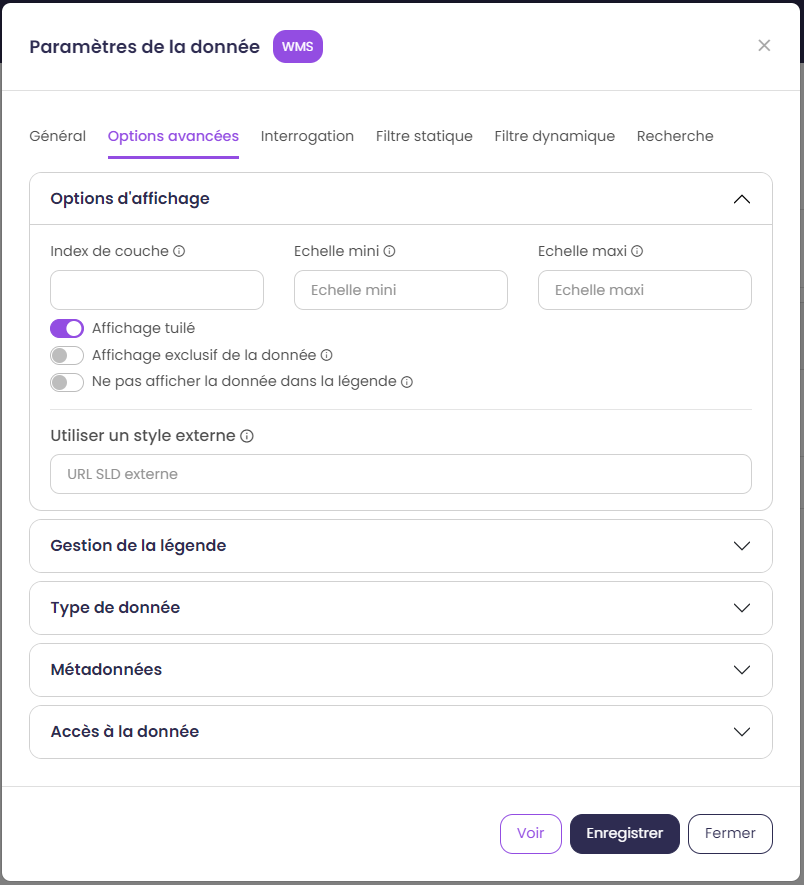
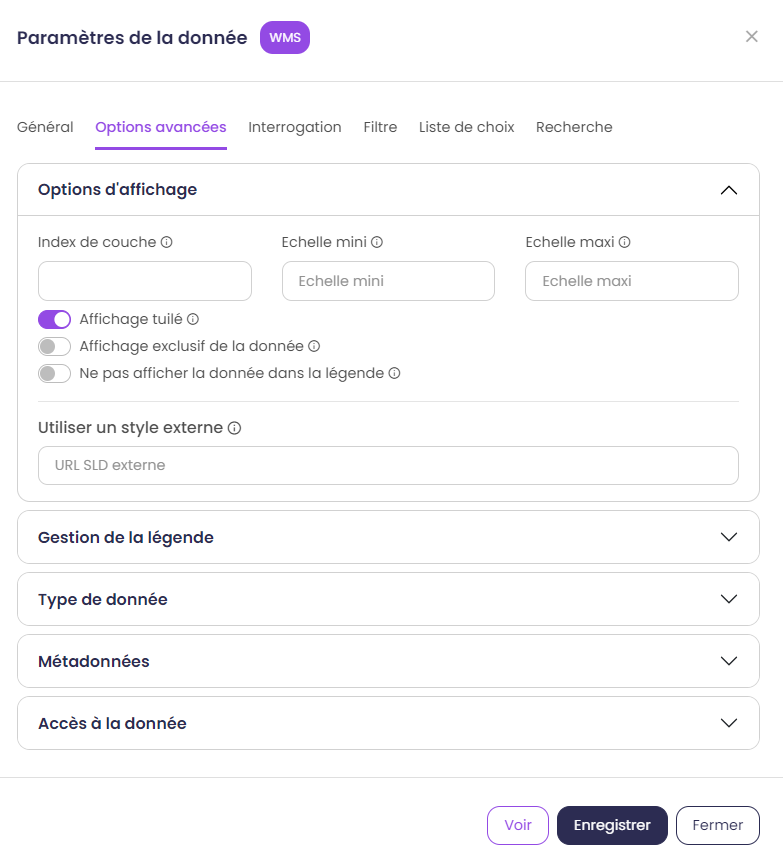
maj doc

diff --git a/docs/doc_user/param_data.rst b/docs/doc_user/param_data.rst
@@ -135,8 +135,9 @@ L'onglet général recense les principales options de la donnée.
 * ``Opacité`` : opacité par défaut de la donnée.
 * ``Afficher la donnée au démarrage de l'application`` : la donnée s'affiche au lancement de l'application.
 * ``Afficher la donnée en première position de la carte`` : la donnée s'affiche toujours au-dessus des autres données qui n'ont pas activée cette option.
+* ``Afficher le panneau de la couche déplié au démarrage`` : le pannneau d'affichage de la donnée sera déplié au démarrage. Il contient filtre, opacité, métadonnée...
 * ``Styles disponibles`` : choix du·des style·s de la donnée dans notre application. Possibilité d'éditer le libellé du style.
-* ``Libellé de la liste des styles`` : Titre de la liste de sélection des styles.
+* ``Libellé de la liste des styles`` : titre de la liste de sélection des styles.
 
 Onglet Interrogation
 ~~~~~~~~~~~~~~~~~~~~~
@@ -166,18 +167,34 @@ Pour personnaliser l’affichage de la fiche d’information, deux options sont 
 
 .. warning:: L’activation de la fonctionnalité « Utiliser un template externe » prend le dessus sur le template construit à l’aide du générateur.
 
-Onglet filtre dynamique
-~~~~~~~~~~~~~~~~~~~~~~~~
+Onglet filtre
+~~~~~~~~~~~~~~~~~~~~~~~
 
-L'onglet filtre dynamique permet de filtrer la donnée via une liste déroulante entre différentes valeurs.
+L'onglet filtre permet de filtrer les données à afficher sur la carte.
 
-.. image:: ../_images/user/mviewerstudio_2_donnees_filtre_dynamique.png
-              :alt: Filtre dynamique
+.. image:: ../_images/user/mviewerstudio_2_filtre_statique.png
+              :alt: Filtre
               :align: center
 
-* ``Nom du filtre`` : nom du filtre dans l'application.
-* ``Champs à filtrer`` : champ sur lequel le filtre va être effectué.
-* ``Valeur(s) sélectionnée(s)`` : valeurs disponibles dans le filtre.
+* ``Filtre attributaire`` : Filtre selon un attribut. Utilisation d'un filtre cql_.
+* ``Filtre géographique`` : Filtre selon la géométrie. Utilisation d'un filtre cql_.
+
+.. _cql: https://docs.geoserver.org/stable/en/user/tutorials/cql/cql_tutorial.html#cql-tutorial
+
+
+
+Onglet liste de choix
+~~~~~~~~~~~~~~~~~~~~~~~~
+
+L'onglet liste de choix permet de filtrer la donnée via une liste déroulante entre différentes valeurs. Disponible uniquement en :guilabel:`mode avancé`
+
+.. image:: ../_images/user/mviewerstudio_2_donnees_filtre_dynamique.png
+              :alt: Liste de choix
+              :align: center
+
+* :guilabel:`mode avancé` ``Nom du filtre`` : nom du filtre dans l'application.
+* :guilabel:`mode avancé` ``Champs à filtrer`` : champ sur lequel le filtre va être effectué.
+* :guilabel:`mode avancé` ``Valeur(s) sélectionnée(s)`` : valeurs disponibles dans le filtre.
 
 Onglet options avancées
 ~~~~~~~~~~~~~~~~~~~~~~~~
@@ -200,20 +217,6 @@ L'onglet options avancées donne accès aux fonctionnalités avancées. Disponib
 * :guilabel:`mode avancé` ``Métadonnées`` : Lien vers la métadonnée. Ne pas modifier.
 * :guilabel:`mode avancé` ``Type de donnée`` : Lien vers la donnée. Ne pas modifier.
 * :guilabel:`mode avancé` ``Métadonnées`` : Lien vers la métadonnée. Ne pas modifier.
-
-Onglet filtre statique
-~~~~~~~~~~~~~~~~~~~~~~~
-
-L'onglet filtre statique permet de filtrer les données à afficher sur la carte. Disponible uniquement en :guilabel:`mode avancé`
-
-.. image:: ../_images/user/mviewerstudio_2_filtre_statique.png
-              :alt: Filtre statique
-              :align: center
-
-* :guilabel:`mode avancé` ``Filtre attributaire`` : Filtre selon un attribut. Utilisation d'un filtre cql_.
-* :guilabel:`mode avancé` ``Filtre géographique`` : Filtre selon la géométrie. Utilisation d'un filtre cql_.
-
-.. _cql: https://docs.geoserver.org/stable/en/user/tutorials/cql/cql_tutorial.html#cql-tutorial
 
 
 Onglet recherche

diff --git a/docs/doc_user/param_appli.rst b/docs/doc_user/param_appli.rst
@@ -35,10 +35,10 @@ Activer les outils que vous souhaitez afficher au sein de votre application :
 * ``Outils de zoom`` : cette option permet d'activer les outils de zoom +/- sur la carte.
 * ``Outils de mesures`` : cette option permet d'activer les outils de mesures de distance et de surface.
 * ``Export de la carte en image`` : cette option permet d'exporter une capture d'écran de la carte consultée.
+* ``Se géolocaliser`` : cette option permet d'activer l'outil de géolocalisation (bouton permettant à l'utilisateur de se localiser sur la carte).
 * :guilabel:`mode avancé` ``Affichage des coordonnées au clic`` : cette option permet d'afficher dans le bandeau en haut les coordonnées du point cliqué.
 * :guilabel:`mode avancé` ``Afficher les coordonnées correspondant à la position de la souris`` : cette option permet d'afficher les coordonnées correspondant à la position de la souris en bas à droite de la carte .
 * :guilabel:`mode avancé` ``Afficher/masquer toutes les données d'une thématique`` : active la possibilité d'afficher toutes les données d'un thème en un clic.
-* ``Se géolocaliser`` : cette option permet d'activer l'outil de géolocalisation (bouton permettant à l'utilisateur de se localiser sur la carte).
 * :guilabel:`mode avancé` ``Ouvrir la carte dans le studio`` : active la possibilité d'ouvrir la carte en cours au sein d'un mviewerstudio pour édition.
 
 Options de la carte
@@ -51,6 +51,7 @@ Paramétrer l'étendue et le zoom de la carte au démarrage de l'application. Ai
               :align: center
 
 * ``Revenir à l'étendue initiale`` : cette option permet d'activer le bouton de retour à l’étendue initiale.
+* :guilabel:`mode avancé` ``Zoom maximal de l'application`` : Option permettant de définir en niveau de zoom le zoom maximal. Pa exemple 20 correspond au zoom 1/533, 18 à l'échelle 1/2133, 15 à l'échelle 1/17062.
 * :guilabel:`mode avancé` ``Interdire la navigation hors de l'étendue définie ci-dessus`` : bloque l'emprise de la carte sur l'emprise définie.
 
 Fonds de plan
